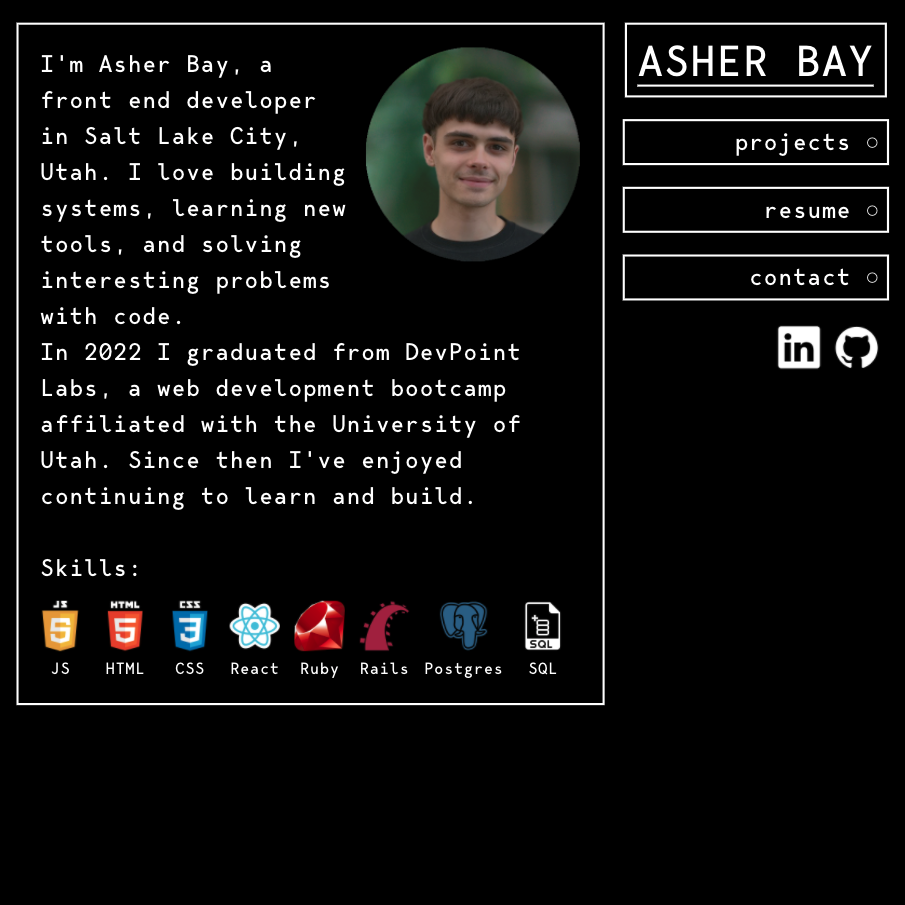
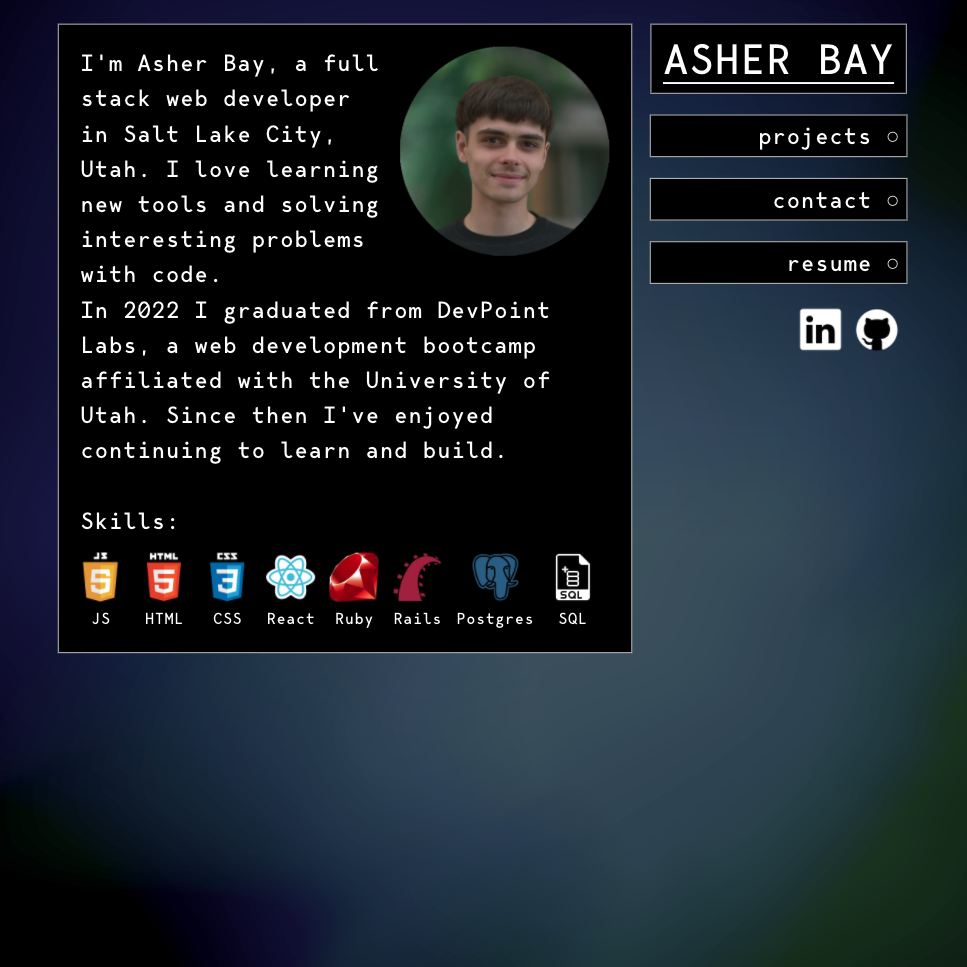
bio and resume update

diff --git a/src/pages/Home.js b/src/pages/Home.js
@@ -45,7 +45,7 @@ const Home = () => {
             <Body y={5} >
             
             <ProfPic src={pic}/>
-                I'm Asher Bay, a full stack web developer in Salt Lake City, Utah. I love learning new tools and solving interesting problems with code.<br/>In 2022 I graduated from DevPoint Labs, a web development bootcamp affiliated with the University of Utah. Since then I've enjoyed continuing to learn and build.
+                I'm Asher Bay, a full stack web developer in Salt Lake City, Utah. I love solving interesting problems, learning new tools, and obsessively tinkering with code.<br/>In 2022 I graduated from DevPoint Labs, a web development bootcamp affiliated with the University of Utah. Since then I've enjoyed continuing to learn and build.
                 <br/>
                 <br/>
                 <p style={{ marginTop: "0px", marginBottom: "15px", position: "relative"}}>Skills:</p>
